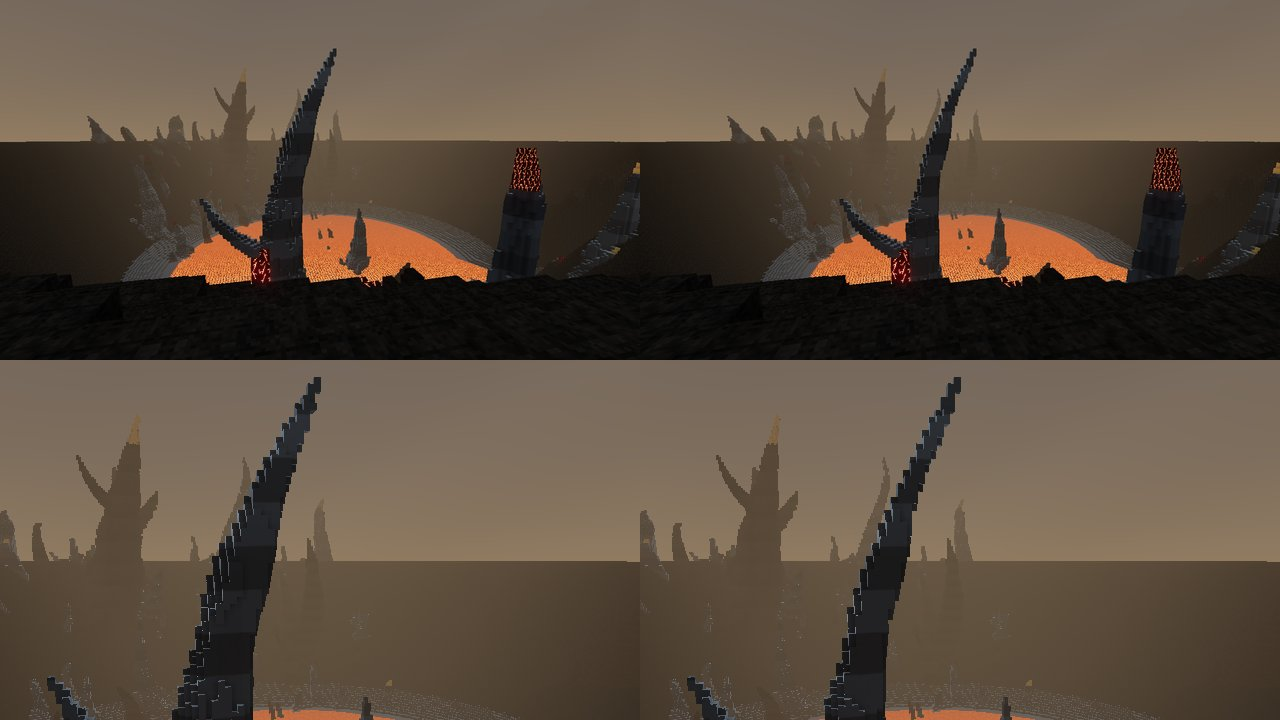
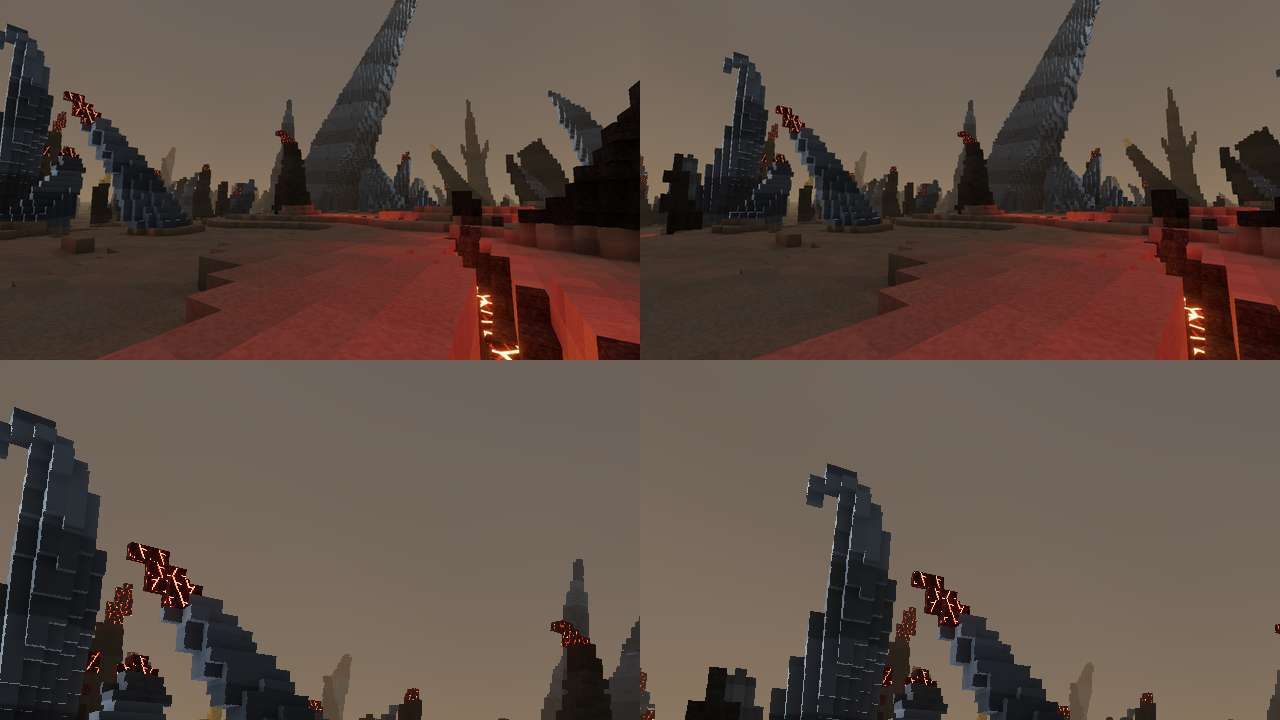
Frame the existing Ibara hook in its review postcard

diff --git a/docs/reports/hell1-hook-framing.md b/docs/reports/hell1-hook-framing.md
@@ -1,0 +1,49 @@
+# HELL-1 hook framing
+
+One fixed yaw adjustment is selected for the HELL-1 postcard after a complete image comparison. It makes an existing hooked formation readable without changing terrain. The catalogue change is under repository verification and is not yet live.
+
+## Why this view
+
+A bounded anatomy audit found active production paths for every required thorn mechanism. A follow-up examined only the 28 already-recorded parents in the old HELL-1 view. Its sole intact hooked main, owner 10263893, had a projected return at the left image edge; the complete main allowance did not fit. That probe stopped as limited absence with no extra rays or owner search. It did not establish a missing shape implementation.
+
+The new direction comes from the 48 saved above-base contour stations. A single analytic solution brings their conservative allowance inside a 12-pixel margin. The minimum yaw adjustment is 9.474928777823404 degrees, rounded upward once to 9.48 degrees. No alternative location, pitch or yaw sweep is tried.
+
+- Eye remains `(5669.5, 30.62, 5417.5)`.
+- Target changes from `(5705.6371182972825, 36.21927446565914, 5470.321479354219)` to `(5713.843472103851, 36.21927446565914, 5463.648201284286)`.
+- Pitch 5 degrees, FOV 70, time 17.25, radius 512, Normal view, fog and shadows are unchanged.
+- The complete target-feature set and named fissure 1088348037 remain unchanged.
+
+The derived contour is a framing aid, not a continuous-mesh certificate or a visibility claim. Actual source validation and rendered pixels decide the next steps.
+
+## Validation and actual capture
+
+The existing `inspectHellCamera` runs once at 64×36 against a fresh seed-1 plan and unchanged production context. It passes eye, support, central clearance, sky, coverage, sun and named-fissure gates. The plan takes 2167.6963 ms and the entry 6857.728 ms, with 170,662 voxel calls, 20,192 bounds calls and nine lava lookups. Sky coverage is 41.36%, target coverage 19.31%, and nine rays see the named fissure. The 62 first-hit cells belonging to the known hook are parent observations, not proof of its returning tip. No selector search or extra grid runs.
+
+The one Normal capture uses the exact published f63d965 production bundle and a private HELL-1 catalogue response. Only that entry's target and fresh validation differ; no source or distribution file is changed by capture. All **1,328 requested chunks are ready in 124.415 s**, within the unchanged 180 s limit. The complete operation takes 127.389 s. Exactly one 1280×720 PNG is written, with queue zero, zero application errors, zero bad/external requests, four retained ReadPixels warnings, and all seven workers/context/browser/server closed.
+
+The baseline is the actual f63d965 release's `11-hell1-tools-trip.png`, already complete and byte-identical to the preceding live release. It is not rebaked. Source, distribution, validator, pose and image hashes remain bound in the capture packet.
+
+## Opened-image decision
+
+Root opens both originals. The new frame retains the left hooked tip and separates its upright shaft from the shorter curling formation beside it. The very large central blade and distant fork remain visible. The old view gives the right-side lava fissure more emphasis and shows another inward-leaning blade on the right; that is a real tradeoff.
+
+A fresh image-only Astra reviewer sees anonymous copies, prefers A, and identifies the complete left hook and clearer rooted-form separation as the stronger overall composition. A maps to the candidate. The reviewer also records B's stronger lava-depth cue and additional right-hand blade. No second reviewer is used to change that judgment.
+
+This is a visual-preference decision, **not a formal rubric score or a phase pass**. HELL-1 remains marked ungraded. Seeds 2/3 and the current calibration requirement remain open; no source generation, shader, save identity, camera lens, phase threshold or distant-LOD policy changes.
+
+![Before and selected HELL-1 framing](../postcards/wip/ibara.jpg)
+
+Root opened this comparison sheet. Before is on the left and selected after is on the right. The upper row contains complete frames at half scale; the lower row contains their upper-left 640×360 detail crops at original scale. These crops explain the framing change and are not rubric evidence. The 1280×720 JPEG is 48,517 bytes; all WIP sheets total 934,240 bytes, within the existing one-megabyte limit. Native originals remain unchanged.
+
+## Evidence and integration boundary
+
+Canonical evidence root: `out/phase13/anatomy-audit-20261016/reframe-decision/`.
+
+- Derivation and exact pose: `derivation.json`, `pose.json`.
+- One fixed validation: `validation/runs/2026-10-15T19-25-51.487Z-6d3b4d71-7370-4639-8f9b-4bd3729ca5d0/`.
+- One complete Normal capture: `capture/runs/2026-10-15T19-44-45.138Z-10a13c72-df17-47e8-ada2-d7a5b7c256b6/`.
+- Root decision: that capture's `root-decision.json`.
+- Blind review: canonical `out/phase13/hook-framing-pixel-review/review.md`; anonymous mapping remains private.
+- Promotion backup and receipt: `promotion/`. All other catalogue entries, TEST data and the historical primitive subtree remain unchanged. Three internal retention descriptions are updated to distinguish this fresh HELL-1 evidence from retained HELL-2 validation.
+
+All 868 tests in 103 files pass in 307.879 s. Check, complete UI lint and build pass in 15.803 / 5.789 / 2.157 s. Independent catalogue review passes 1,007 hash comparisons and confirms that only HELL-1's target and fresh validation changed, alongside three declared retention descriptions. The clean build and exact production release checks remain required before publication. The rejected ground-blend, material and earlier camera-search studies remain closed.

diff --git a/docs/progress.md b/docs/progress.md
@@ -21,7 +21,11 @@
 | 1.10 Polish + performance | ☐ | |
 
 ## Current session
-**16 October 2026 · Codex · `codex/phase-1-3-camera-clearance-20261016`**
+**16 October 2026 · Codex · `codex/phase-1-3-hook-framing-20261016`**
+
+**Framing integration checks pass:** all 868 tests in 103 files complete in 307.879 s. Check, complete UI lint and build pass in 15.803 / 5.789 / 2.157 s. Independent catalogue review verifies 1,007 hashes, the single changed destination and preservation of the other seventeen, TEST and historical primitive data. Root opens the new before/after sheet; all WIP images total 934,240 bytes. Exact clean-build and production-release verification remain pending; live remains `f63d965`.
+
+**Selected HELL-1 framing, not yet published:** one analytically fixed 9.48-degree yaw turn brings the existing left hook completely into frame. Eye position, pitch, FOV, time, radius, terrain and rendering remain unchanged. The ordinary fixed grid passes all gates with 170,662 voxel calls; the full Normal capture loads **1,328/1,328 chunks in 124.415 s**, within 180 s, with zero errors and complete cleanup. Root opens the old/new originals and prefers the new view; fresh blind Astra also prefers it for the complete hook and clearer separation of rooted forms, while retaining the loss of some right-side fissure emphasis. The ungraded camera and truthful retention metadata are promoted for repository checks. No formal rubric, seed-2/3 or phase acceptance is claimed. [Evidence](reports/hell1-hook-framing.md).
 
 **Camera clearance optimization published as `f63d965`:** the camera now reuses its final-position terrain height within one frame, retaining every adjusted-position query, the sixteenth-adjustment check and 85-degree cap. All **868 tests / 103 files pass in 291.640 s**, plus 24 focused tests, client/tools types and final formatting. Four fresh HUD images pass root/independent Astra review and 327 hash checks. Final `check`, complete UI lint and build pass in **16.866 / 5.769 / 3.724 s**; UI lint reports 106 states, zero missing rows and 23 bindings. No cross-frame cache, camera rule, generator, view distance or rendering effect changes. [Measurement and limits](reports/camera-clearance-cost.md).
 
